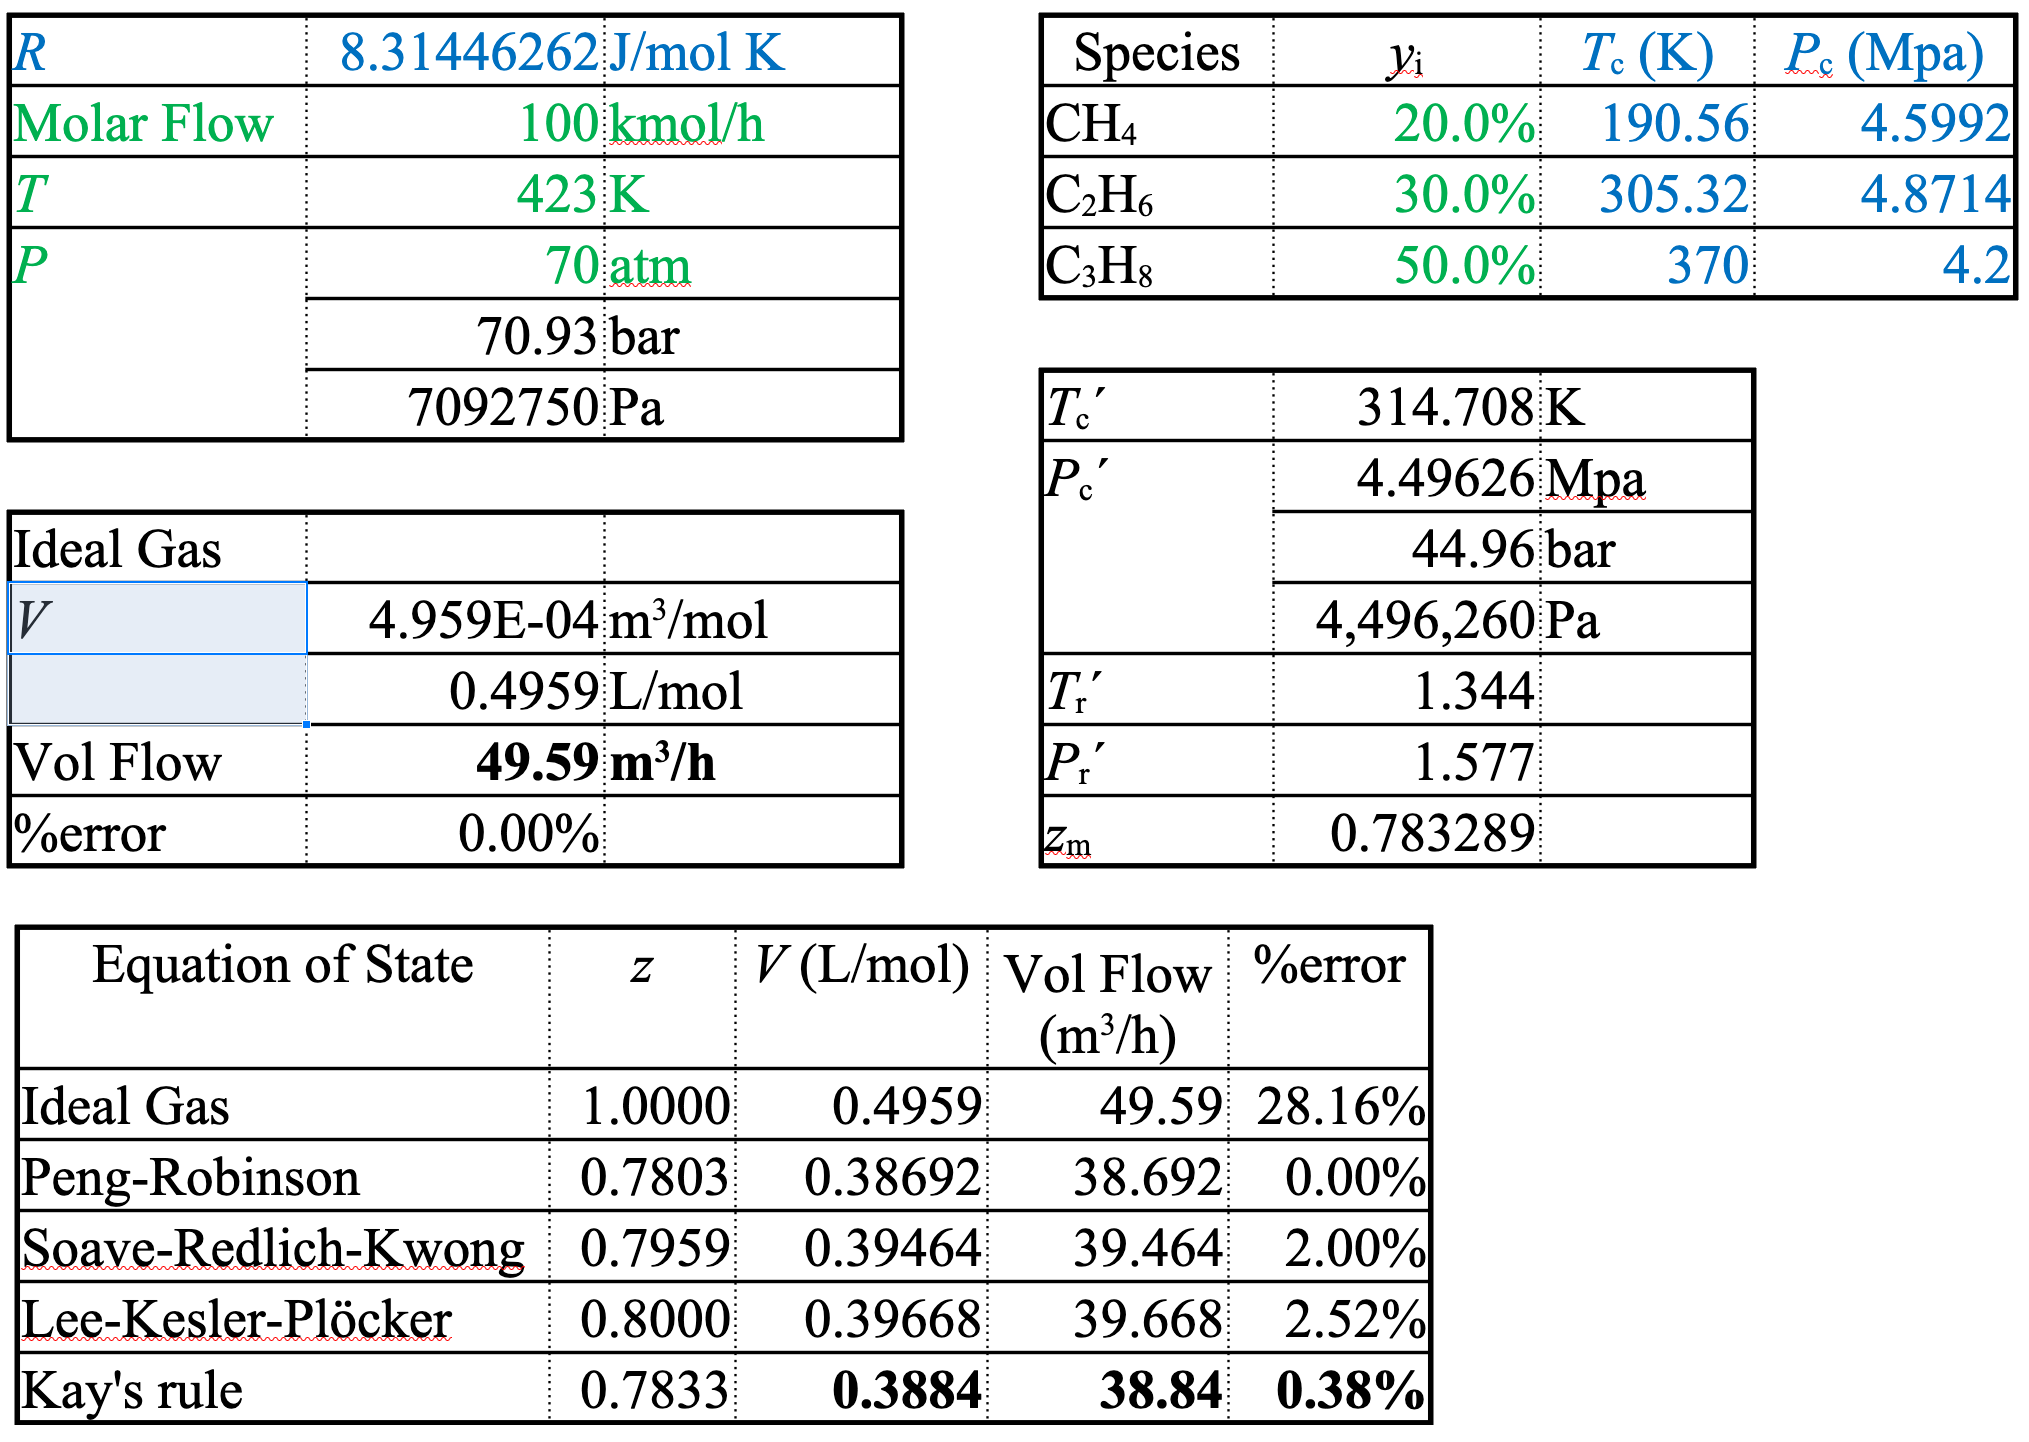
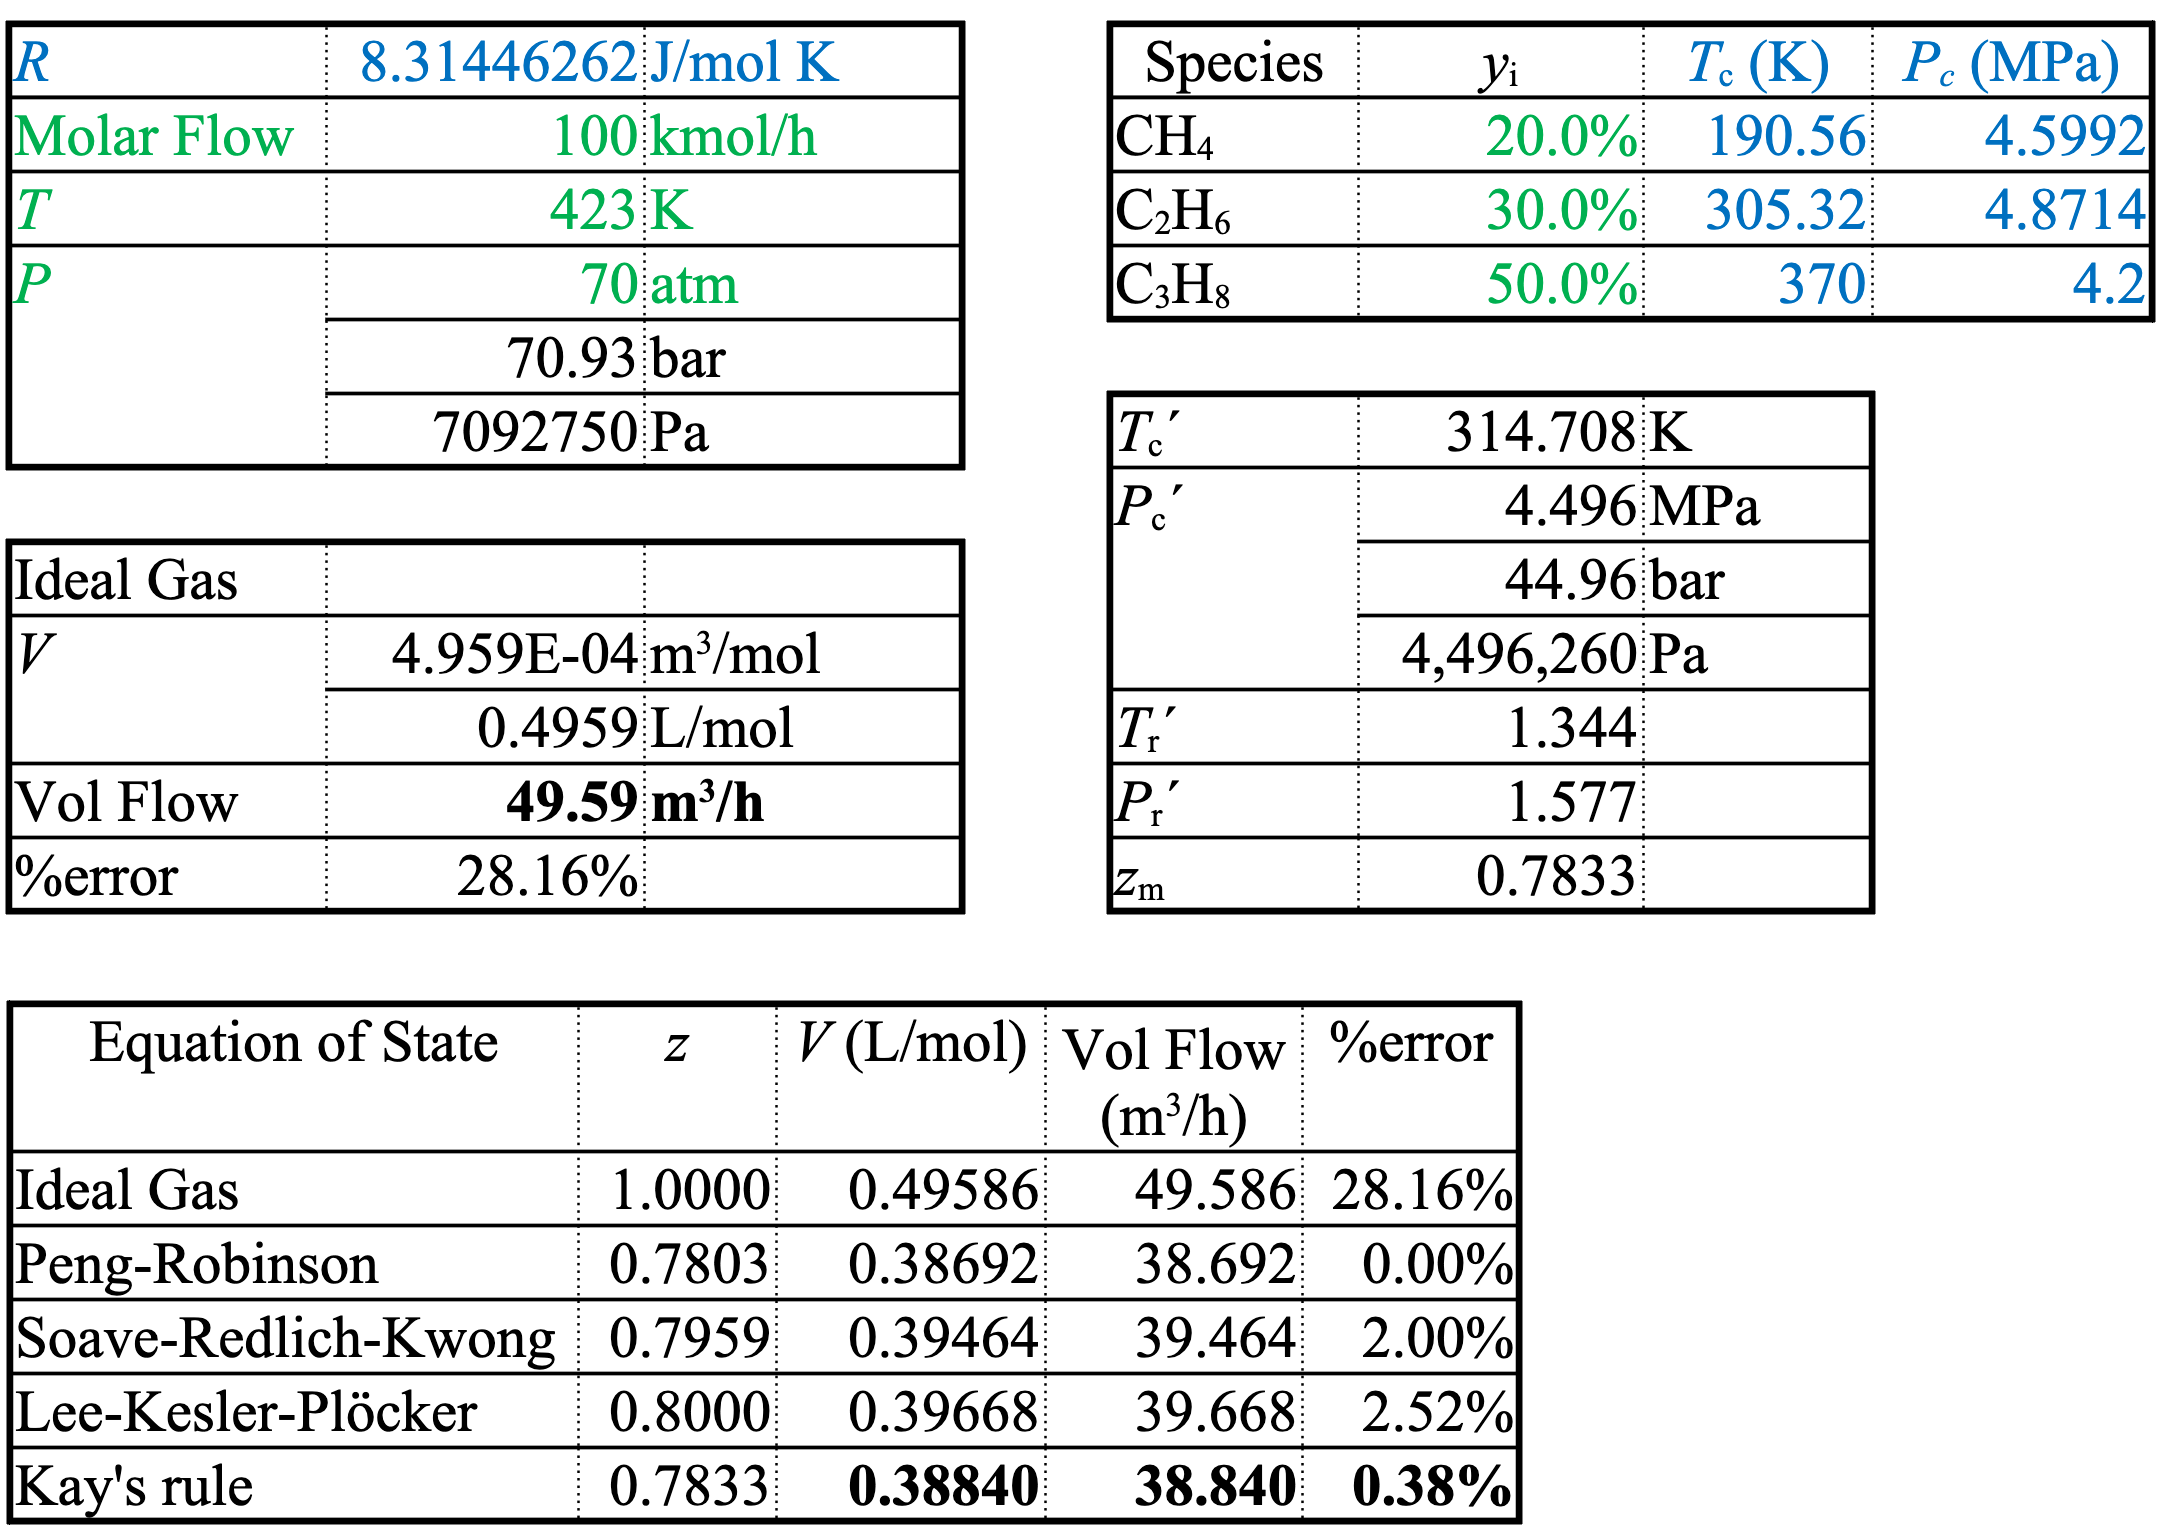
Built site for gh-pages

Changed region(s): [[0.0, 0.2497, 0.8694, 0.9986], [0.4968, 0.0, 1.0, 0.2184], [0.0, 0.0, 0.4657, 0.3121]]

diff --git a/balances/material/Video66Visuals.html b/balances/material/Video66Visuals.html
@@ -147,17 +147,18 @@
 </section>
 <section id="kays-rule-cont." class="slide level2">
 <h2>Kay’s Rule (cont.)</h2>
-<p><img data-src="CompGenDiaTemp.png" class="absolute" style="top: 15%; left: 35%; width: 65%; "></p>
-<div class="absolute" style="top: 76%; left: 58%; ">
-<p>CC BY-SA 3.0</p>
-</div>
-<div class="absolute" style="top: 15%; left: 2%; ">
+<p><img data-src="GenCompChart.png" class="absolute" style="top: 25%; left: 5%; width: 90%; "></p>
+<div class="fragment absolute" style="top: 8%; left: 2%; ">
 <p><span class="math display">\[
 P_r' =\frac{P}{P_c'}
 \]</span></p>
+</div>
+<div class="fragment absolute" style="top: 8%; left: 35%; ">
 <p><span class="math display">\[
 T_r' = \frac{T}{T_c'}
 \]</span></p>
+</div>
+<div class="fragment absolute" style="top: 10%; left: 65%; ">
 <p><span class="math display">\[
 z_m = z_m(T_r', P_r')
 \]</span></p>
@@ -169,24 +170,60 @@ z_m = z_m(T_r', P_r')
 <img data-src="DWSIMScreen.png" class="r-stretch"></section>
 <section id="real-gas-example" class="slide level2">
 <h2>Real Gas Example</h2>
-<p>A stream of 20% methane, 30% ethane, and 50% propane at <span class="math inline">\(T = 423\ \mathrm{K}\)</span> and <span class="math inline">\(P = 70\ \mathrm{atm}\)</span> flows at <span class="math inline">\(100.0\ \mathrm{kmol/h}\)</span>.</p>
+<p>A stream of</p>
+<div class="fragment absolute" style="top: 15%; left: 2%; ">
+<p>20% methane,</p>
+</div>
+<div class="fragment absolute" style="top: 21%; left: 2%; ">
+<p>30% ethane, and</p>
+</div>
+<div class="fragment absolute" style="top: 27%; left: 2%; ">
+<p>50% propane</p>
+</div>
+<div class="fragment absolute" style="top: 33%; left: 0%; ">
+<p>at <span class="math inline">\(T = 423\ \mathrm{K}\)</span> and <span class="math inline">\(P = 70\ \mathrm{atm}\)</span> flows at <span class="math inline">\(100.0\ \mathrm{kmol/h}\)</span>.</p>
+</div>
+<div class="fragment absolute" style="top: 41%; left: 0%; ">
 <p>Estimate the volumetric flow rate using Kay’s rule and compare with the ideal gas law and the Peng-Robinson, Soave-Redlich-Kwong, and Lee-Kesler-Plöcker equations of state.</p>
+</div>
+<div class="fragment absolute" style="top: 67%; left: 0%; ">
 <p>Data from Wikipedia</p>
-<p><a href="https://en.wikipedia.org/wiki/Methane">methane</a>: <span class="math inline">\(T_c = 190.56\ \mathrm{K}\)</span>, <span class="math inline">\(P_c = 4.5992\ \mathrm{MPa}\)</span></p>
-<p><a href="https://en.wikipedia.org/wiki/Ethane">ethane</a>: <span class="math inline">\(T_c = 305.32\ \mathrm{K}\)</span>, <span class="math inline">\(P_c = 4.8714\ \mathrm{MPa}\)</span></p>
-<p><a href="https://en.wikipedia.org/wiki/Propane">propane</a>: <span class="math inline">\(T_c = 370\ \mathrm{K}\)</span>, <span class="math inline">\(P_c = 4.23\ \mathrm{MPa}\)</span></p>
+<table class="caption-top">
+<tbody>
+<tr class="odd">
+<td><a href="https://en.wikipedia.org/wiki/Methane">methane</a>:</td>
+<td><span class="math inline">\(T_c = 190.56\ \mathrm{K}\)</span></td>
+<td><span class="math inline">\(P_c = 4.5992\ \mathrm{MPa}\)</span></td>
+</tr>
+<tr class="even">
+<td><a href="https://en.wikipedia.org/wiki/Ethane">ethane</a>:</td>
+<td><span class="math inline">\(T_c = 305.32\ \mathrm{K}\)</span></td>
+<td><span class="math inline">\(P_c = 4.8714\ \mathrm{MPa}\)</span></td>
+</tr>
+<tr class="odd">
+<td><a href="https://en.wikipedia.org/wiki/Propane">propane</a>:</td>
+<td><span class="math inline">\(T_c = 370\ \mathrm{K}\)</span></td>
+<td><span class="math inline">\(P_c = 4.23\ \mathrm{MPa}\)</span></td>
+</tr>
+</tbody>
+</table>
+</div>
 </section>
 <section id="example-cont." class="slide level2 absolute" data-top="5%" data-left="5%">
 <h2>Example (cont.)</h2>
-<p><span class="math display">\[70\ \mathrm{atm} \boldsymbol{\cdot} 0.101325\ \mathrm{\frac{MPa}{atm}}= 7.093\ \mathrm{MPa}\]</span></p>
+<div class="fragment">
+<p><span class="math display">\[70\ \mathrm{atm} \boldsymbol{\cdot} 0.101325\ \mathrm{\frac{MPa}{atm}}= 7.093\ \mathrm{MPa} = 7,093,750\ \mathrm{Pa}\]</span></p>
+</div>
+<div class="fragment">
 <h3 class="absolute" data-top="15%" data-left="10%" id="ideal-gas">Ideal Gas</h3>
+</div>
 <div style="font-size: 85px;">
-<div class="absolute" style="top: 35%; left: 5%; ">
+<div class="fragment absolute" style="top: 35%; left: 5%; ">
 <p><span class="math display">\[
 \hat{V}=\frac{RT}{P}=\frac{8.314\mathrm{\frac{J}{mol \cdot K}}\boldsymbol{\cdot}423\ \mathrm{K}}{7.093\times10^{6}\ \mathrm{Pa}}=4.959\times10^{-4}\ \mathrm{\frac{m^{3}}{mol}}=0.4959\ \mathrm{\frac{L}{mol}}
 \]</span></p>
 </div>
-<div class="absolute" style="top: 55%; left: 5%; ">
+<div class="fragment absolute" style="top: 55%; left: 5%; ">
 <p><span class="math display">\[
 \dot{V}=\dot{n}\hat{V}=100\ \mathrm{\frac{kmol}{h}}\boldsymbol{\cdot}\frac{1000\ \mathrm{mol}}{1\ \mathrm{kmol}}\boldsymbol{\cdot}4.959\times10^{-4}\ \mathrm{\frac{m^{3}}{mol}}=49.59\ \mathrm{\frac{m^{3}}{h}}
 \]</span></p>
@@ -195,43 +232,50 @@ z_m = z_m(T_r', P_r')
 </section>
 <section id="kays-rule-calculation" class="slide level2">
 <h2>Kay’s Rule Calculation</h2>
+<div style="font-size: 90px;">
+<div class="fragment absolute" style="top: 10%; left: 2%; ">
 <p><span class="math display">\[
 T_c' = 0.200(4.23) + 0.300(305.32) + 0.500(370) = 314.71\ \mathrm{K}
 \]</span></p>
+</div>
+<div class="fragment absolute" style="top: 25%; left: 2%; ">
 <p><span class="math display">\[
 P_c' = 0.200(4.5992) + 0.300(4.8714) + 0.500(4.23) = 4.496\ \mathrm{MPa}
 \]</span></p>
+</div>
+<div class="fragment absolute" style="top: 40%; left: 2%; ">
 <p><span class="math display">\[
 T_r' = \frac{T}{T_c'} = \frac{423}{314.7} = 1.344
 \]</span></p>
+</div>
+<div class="fragment absolute" style="top: 55%; left: 2%; ">
 <p><span class="math display">\[
 P_r' = \frac{P}{P_c'} = \frac{7.093}{4.496} = 1.577
 \]</span></p>
+</div>
+</div>
 </section>
 <section id="example-cont.-1" class="slide level2">
 <h2>Example (cont.)</h2>
 <h3 id="using-kays-rule">Using Kay’s rule</h3>
-<p><img data-src="CompGenDiaTemp.png" class="absolute" style="top: 15%; left: 40%; width: 60%; "></p>
-<div class="absolute" style="top: 70%; left: 61%; ">
-<p>CC BY-SA 3.0</p>
-</div>
-<div style="font-size: 80px;">
-<div class="absolute" style="top: 35%; left: 2%; ">
+<p><img data-src="GenCompChart.png" class="absolute" style="top: 25%; left: 15%; width: 85%; "></p>
+<div style="font-size: 76px;">
+<div class="fragment absolute" style="top: 15%; left: 2%; ">
 <p><span class="math display">\[
 P_r' = \frac{P}{P_c'} = \frac{7.093}{4.496} = 1.577
 \]</span></p>
 </div>
-<div class="absolute" style="top: 50%; left: 2%; ">
+<div class="fragment absolute" style="top: 15%; left: 50%; ">
 <p><span class="math display">\[
 T_r' = \frac{T}{T_c'} = \frac{423}{314.7} = 1.344
 \]</span></p>
 </div>
-<div class="absolute" style="top: 27%; left: 23%; ">
+<div class="fragment absolute" style="top: 54%; left: 2%; ">
 <p><span class="math display">\[
 z_{m}=0.7833
 \]</span></p>
 </div>
-<div class="absolute" style="top: 65%; left: 2%; ">
+<div class="fragment absolute" style="top: 88%; left: 2%; ">
 <p><span class="math display">\[
 \dot{V}_{KR}=z_{m}\dot{V}_{IG}=38.84\ \mathrm{\frac{m^{3}}{h}}
 \]</span></p>
